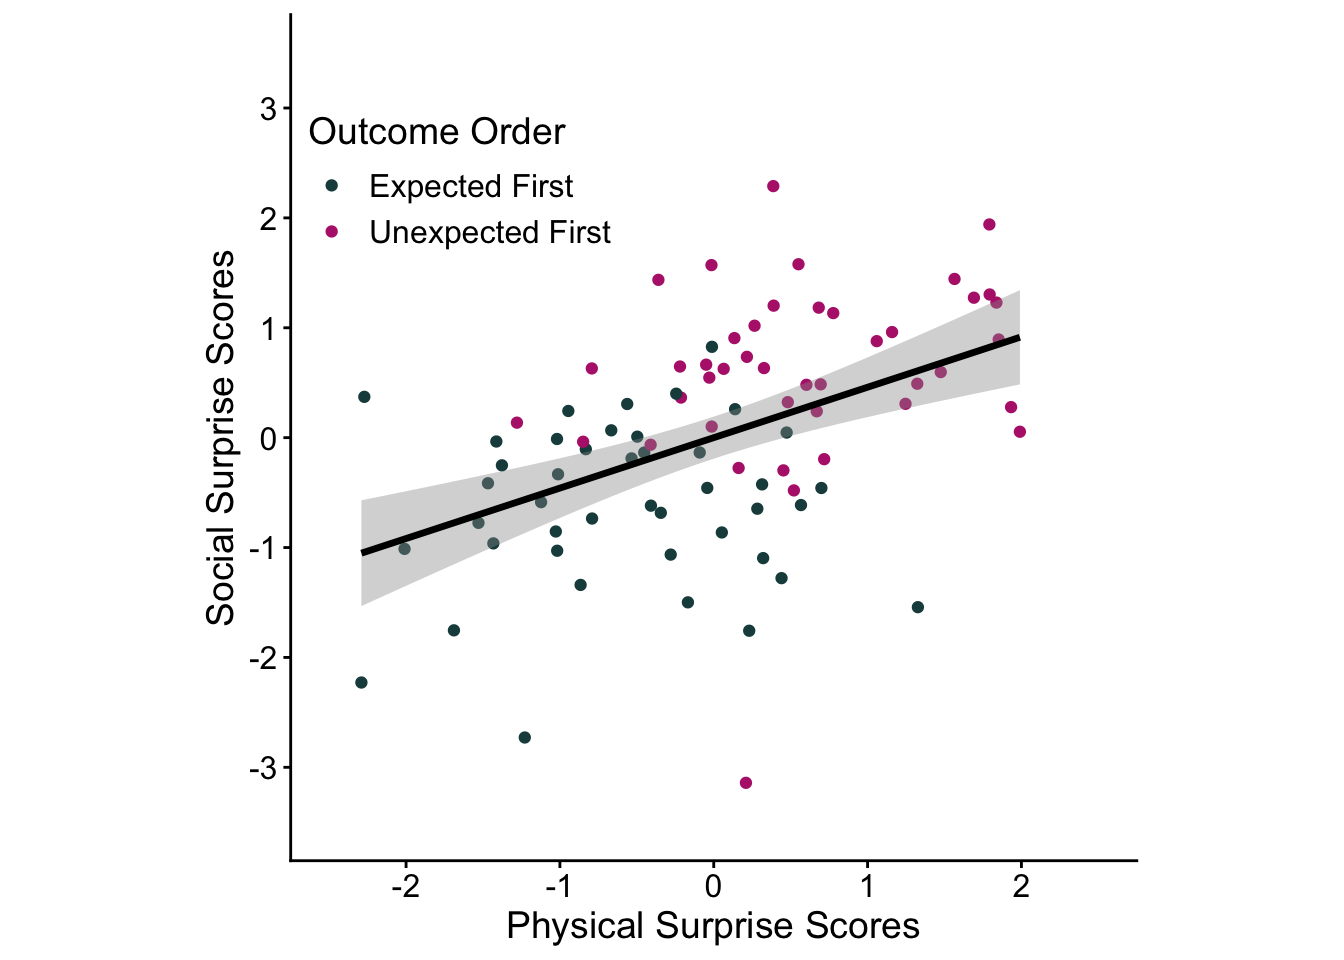
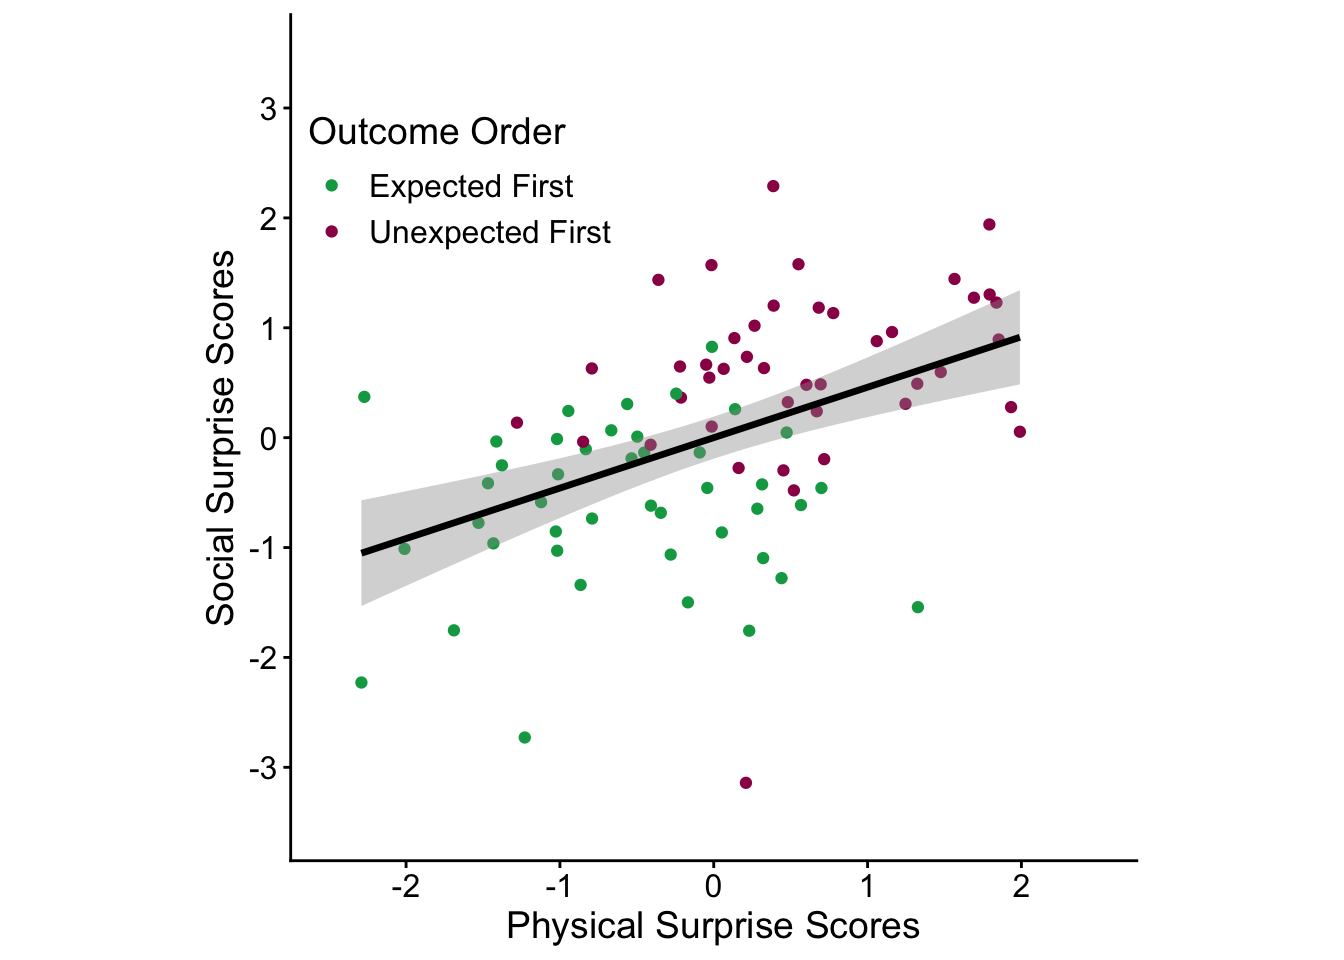
updating figure aesthetics

diff --git a/domain_general_voe_reanalysis.html b/domain_general_voe_reanalysis.html
@@ -245,23 +245,24 @@ dbl (4): subject, age_months, familiarization, test_window
 </div>
 <div class="cell">
 <div class="code-copy-outer-scaffold"><div class="sourceCode cell-code" id="cb7"><pre class="sourceCode r code-with-copy"><code class="sourceCode r"><span id="cb7-1"><a href="#cb7-1" aria-hidden="true" tabindex="-1"></a><span class="co">#color palette</span></span>
-<span id="cb7-2"><a href="#cb7-2" aria-hidden="true" tabindex="-1"></a>color_palette_outcome <span class="ot">&lt;-</span> <span class="fu">c</span>(<span class="st">"#1b4b4b"</span>,<span class="st">"#b62779"</span>)</span>
-<span id="cb7-3"><a href="#cb7-3" aria-hidden="true" tabindex="-1"></a></span>
-<span id="cb7-4"><a href="#cb7-4" aria-hidden="true" tabindex="-1"></a>order_effect_by_task <span class="ot">&lt;-</span> <span class="fu">ggplot</span>(summarize_task_outcome_order, <span class="fu">aes</span>(<span class="at">x =</span> outcome_order, <span class="at">y =</span> mean_diff_log, <span class="at">fill =</span> outcome_order,<span class="at">color=</span>outcome_order)) <span class="sc">+</span></span>
-<span id="cb7-5"><a href="#cb7-5" aria-hidden="true" tabindex="-1"></a>  <span class="fu">geom_bar</span>(<span class="at">stat =</span> <span class="st">"identity"</span>, <span class="at">position =</span> <span class="st">"dodge"</span>) <span class="sc">+</span></span>
-<span id="cb7-6"><a href="#cb7-6" aria-hidden="true" tabindex="-1"></a>  <span class="fu">geom_jitter</span>(<span class="at">data=</span>primary_voe_data,<span class="fu">aes</span>(<span class="at">y =</span> diff_log), <span class="at">width =</span> <span class="fl">0.1</span>,<span class="at">height=</span><span class="dv">0</span>, <span class="at">alpha =</span> <span class="fl">0.3</span>)<span class="sc">+</span></span>
-<span id="cb7-7"><a href="#cb7-7" aria-hidden="true" tabindex="-1"></a>  <span class="fu">geom_errorbar</span>(<span class="fu">aes</span>(<span class="at">ymin =</span> mean_diff_log <span class="sc">-</span> ci_diff_log, <span class="at">ymax =</span> mean_diff_log <span class="sc">+</span> ci_diff_log), <span class="at">width =</span> <span class="dv">0</span>, <span class="at">color=</span><span class="st">"black"</span>) <span class="sc">+</span></span>
-<span id="cb7-8"><a href="#cb7-8" aria-hidden="true" tabindex="-1"></a>  <span class="fu">facet_wrap</span>(<span class="sc">~</span> domain<span class="sc">+</span>task,<span class="at">ncol=</span><span class="dv">4</span>) <span class="sc">+</span></span>
-<span id="cb7-9"><a href="#cb7-9" aria-hidden="true" tabindex="-1"></a>  <span class="co">#rename x-levels</span></span>
-<span id="cb7-10"><a href="#cb7-10" aria-hidden="true" tabindex="-1"></a>  <span class="fu">scale_x_discrete</span>(<span class="at">labels =</span> <span class="fu">c</span>(<span class="st">"exp_first"</span> <span class="ot">=</span> <span class="st">"Exp.</span><span class="sc">\n</span><span class="st">First"</span>, <span class="st">"unexp_first"</span> <span class="ot">=</span> <span class="st">"Unexp.</span><span class="sc">\n</span><span class="st">First"</span>)) <span class="sc">+</span></span>
-<span id="cb7-11"><a href="#cb7-11" aria-hidden="true" tabindex="-1"></a>  <span class="fu">scale_color_discrete</span>(<span class="at">palette=</span>color_palette_outcome)<span class="sc">+</span></span>
-<span id="cb7-12"><a href="#cb7-12" aria-hidden="true" tabindex="-1"></a>  <span class="fu">scale_fill_discrete</span>(<span class="at">palette=</span>color_palette_outcome)<span class="sc">+</span></span>
-<span id="cb7-13"><a href="#cb7-13" aria-hidden="true" tabindex="-1"></a>  <span class="fu">labs</span>(<span class="at">x =</span> <span class="st">"Outcome Order"</span>,</span>
-<span id="cb7-14"><a href="#cb7-14" aria-hidden="true" tabindex="-1"></a>       <span class="at">y =</span> <span class="st">"VOE Effect (Unexpected - Expected Log Looking)"</span>) <span class="sc">+</span></span>
-<span id="cb7-15"><a href="#cb7-15" aria-hidden="true" tabindex="-1"></a>  <span class="fu">geom_hline</span>(<span class="at">yintercept =</span> <span class="dv">0</span>, <span class="at">linetype =</span> <span class="st">"dashed"</span>, <span class="at">color =</span> <span class="st">"black"</span>) <span class="sc">+</span></span>
-<span id="cb7-16"><a href="#cb7-16" aria-hidden="true" tabindex="-1"></a>  <span class="fu">theme_cowplot</span>()<span class="sc">+</span></span>
-<span id="cb7-17"><a href="#cb7-17" aria-hidden="true" tabindex="-1"></a>  <span class="fu">theme</span>(<span class="at">legend.position=</span><span class="st">"none"</span>)</span>
-<span id="cb7-18"><a href="#cb7-18" aria-hidden="true" tabindex="-1"></a>order_effect_by_task</span></code></pre></div><button title="Copy to Clipboard" class="code-copy-button"><i class="bi"></i></button></div>
+<span id="cb7-2"><a href="#cb7-2" aria-hidden="true" tabindex="-1"></a><span class="co">#color_palette_outcome &lt;- c("#1b4b4b","#b62779")</span></span>
+<span id="cb7-3"><a href="#cb7-3" aria-hidden="true" tabindex="-1"></a>color_palette_outcome <span class="ot">&lt;-</span> <span class="fu">c</span>(<span class="st">"#00A651"</span>,<span class="st">"#9C0056"</span>)</span>
+<span id="cb7-4"><a href="#cb7-4" aria-hidden="true" tabindex="-1"></a></span>
+<span id="cb7-5"><a href="#cb7-5" aria-hidden="true" tabindex="-1"></a>order_effect_by_task <span class="ot">&lt;-</span> <span class="fu">ggplot</span>(summarize_task_outcome_order, <span class="fu">aes</span>(<span class="at">x =</span> outcome_order, <span class="at">y =</span> mean_diff_log, <span class="at">fill =</span> outcome_order,<span class="at">color=</span>outcome_order)) <span class="sc">+</span></span>
+<span id="cb7-6"><a href="#cb7-6" aria-hidden="true" tabindex="-1"></a>  <span class="fu">geom_bar</span>(<span class="at">stat =</span> <span class="st">"identity"</span>, <span class="at">position =</span> <span class="st">"dodge"</span>) <span class="sc">+</span></span>
+<span id="cb7-7"><a href="#cb7-7" aria-hidden="true" tabindex="-1"></a>  <span class="fu">geom_jitter</span>(<span class="at">data=</span>primary_voe_data,<span class="fu">aes</span>(<span class="at">y =</span> diff_log), <span class="at">width =</span> <span class="fl">0.1</span>,<span class="at">height=</span><span class="dv">0</span>, <span class="at">alpha =</span> <span class="fl">0.3</span>)<span class="sc">+</span></span>
+<span id="cb7-8"><a href="#cb7-8" aria-hidden="true" tabindex="-1"></a>  <span class="fu">geom_errorbar</span>(<span class="fu">aes</span>(<span class="at">ymin =</span> mean_diff_log <span class="sc">-</span> ci_diff_log, <span class="at">ymax =</span> mean_diff_log <span class="sc">+</span> ci_diff_log), <span class="at">width =</span> <span class="dv">0</span>, <span class="at">color=</span><span class="st">"black"</span>) <span class="sc">+</span></span>
+<span id="cb7-9"><a href="#cb7-9" aria-hidden="true" tabindex="-1"></a>  <span class="fu">facet_wrap</span>(<span class="sc">~</span> domain<span class="sc">+</span>task,<span class="at">ncol=</span><span class="dv">4</span>) <span class="sc">+</span></span>
+<span id="cb7-10"><a href="#cb7-10" aria-hidden="true" tabindex="-1"></a>  <span class="co">#rename x-levels</span></span>
+<span id="cb7-11"><a href="#cb7-11" aria-hidden="true" tabindex="-1"></a>  <span class="fu">scale_x_discrete</span>(<span class="at">labels =</span> <span class="fu">c</span>(<span class="st">"exp_first"</span> <span class="ot">=</span> <span class="st">"Exp.</span><span class="sc">\n</span><span class="st">First"</span>, <span class="st">"unexp_first"</span> <span class="ot">=</span> <span class="st">"Unexp.</span><span class="sc">\n</span><span class="st">First"</span>)) <span class="sc">+</span></span>
+<span id="cb7-12"><a href="#cb7-12" aria-hidden="true" tabindex="-1"></a>  <span class="fu">scale_color_discrete</span>(<span class="at">palette=</span>color_palette_outcome)<span class="sc">+</span></span>
+<span id="cb7-13"><a href="#cb7-13" aria-hidden="true" tabindex="-1"></a>  <span class="fu">scale_fill_discrete</span>(<span class="at">palette=</span>color_palette_outcome)<span class="sc">+</span></span>
+<span id="cb7-14"><a href="#cb7-14" aria-hidden="true" tabindex="-1"></a>  <span class="fu">labs</span>(<span class="at">x =</span> <span class="st">"Outcome Order"</span>,</span>
+<span id="cb7-15"><a href="#cb7-15" aria-hidden="true" tabindex="-1"></a>       <span class="at">y =</span> <span class="st">"VOE Effect (Unexpected - Expected Log Looking)"</span>) <span class="sc">+</span></span>
+<span id="cb7-16"><a href="#cb7-16" aria-hidden="true" tabindex="-1"></a>  <span class="fu">geom_hline</span>(<span class="at">yintercept =</span> <span class="dv">0</span>, <span class="at">linetype =</span> <span class="st">"dashed"</span>, <span class="at">color =</span> <span class="st">"black"</span>) <span class="sc">+</span></span>
+<span id="cb7-17"><a href="#cb7-17" aria-hidden="true" tabindex="-1"></a>  <span class="fu">theme_cowplot</span>()<span class="sc">+</span></span>
+<span id="cb7-18"><a href="#cb7-18" aria-hidden="true" tabindex="-1"></a>  <span class="fu">theme</span>(<span class="at">legend.position=</span><span class="st">"none"</span>)</span>
+<span id="cb7-19"><a href="#cb7-19" aria-hidden="true" tabindex="-1"></a>order_effect_by_task</span></code></pre></div><button title="Copy to Clipboard" class="code-copy-button"><i class="bi"></i></button></div>
 <div class="cell-output-display">
 <div>
 <figure class="figure">
@@ -284,7 +285,7 @@ dbl (4): subject, age_months, familiarization, test_window
 <div class="code-copy-outer-scaffold"><div class="sourceCode cell-code" id="cb9"><pre class="sourceCode r code-with-copy"><code class="sourceCode r"><span id="cb9-1"><a href="#cb9-1" aria-hidden="true" tabindex="-1"></a><span class="co">#summarize data for each VOE event by expected first vs. unexpected first</span></span>
 <span id="cb9-2"><a href="#cb9-2" aria-hidden="true" tabindex="-1"></a>overall_order_effect <span class="ot">&lt;-</span> <span class="fu">ggplot</span>(summarize_order, <span class="fu">aes</span>(<span class="at">x =</span> outcome_order, <span class="at">y =</span> group_avg_diff_log, <span class="at">fill =</span> outcome_order,<span class="at">color=</span>outcome_order)) <span class="sc">+</span></span>
 <span id="cb9-3"><a href="#cb9-3" aria-hidden="true" tabindex="-1"></a>  <span class="fu">geom_violin</span>(<span class="at">data=</span>summarize_subj_order,<span class="fu">aes</span>(<span class="at">y =</span> mean_diff_log),<span class="at">fill=</span><span class="cn">NA</span>) <span class="sc">+</span></span>
-<span id="cb9-4"><a href="#cb9-4" aria-hidden="true" tabindex="-1"></a>  <span class="fu">geom_jitter</span>(<span class="at">data=</span>summarize_subj_order,<span class="fu">aes</span>(<span class="at">y =</span> mean_diff_log), <span class="at">width =</span> <span class="fl">0.1</span>,<span class="at">height=</span><span class="dv">0</span>, <span class="at">alpha =</span> <span class="fl">0.2</span>)<span class="sc">+</span></span>
+<span id="cb9-4"><a href="#cb9-4" aria-hidden="true" tabindex="-1"></a>  <span class="fu">geom_jitter</span>(<span class="at">data=</span>summarize_subj_order,<span class="fu">aes</span>(<span class="at">y =</span> mean_diff_log), <span class="at">width =</span> <span class="fl">0.1</span>,<span class="at">height=</span><span class="dv">0</span>, <span class="at">alpha =</span> <span class="fl">0.2</span>,<span class="at">size=</span><span class="dv">2</span>)<span class="sc">+</span></span>
 <span id="cb9-5"><a href="#cb9-5" aria-hidden="true" tabindex="-1"></a>  <span class="fu">geom_point</span>(<span class="at">size=</span><span class="dv">3</span>) <span class="sc">+</span></span>
 <span id="cb9-6"><a href="#cb9-6" aria-hidden="true" tabindex="-1"></a>  <span class="fu">geom_errorbar</span>(<span class="fu">aes</span>(<span class="at">ymin =</span> group_avg_diff_log <span class="sc">-</span> ci_diff_log, <span class="at">ymax =</span> group_avg_diff_log <span class="sc">+</span> ci_diff_log), <span class="at">width =</span> <span class="dv">0</span>) <span class="sc">+</span></span>
 <span id="cb9-7"><a href="#cb9-7" aria-hidden="true" tabindex="-1"></a>  <span class="fu">scale_x_discrete</span>(<span class="at">labels =</span> <span class="fu">c</span>(<span class="st">"exp_first"</span> <span class="ot">=</span> <span class="st">"Expected First"</span>, <span class="st">"unexp_first"</span> <span class="ot">=</span> <span class="st">"Unexpected First"</span>)) <span class="sc">+</span></span>
